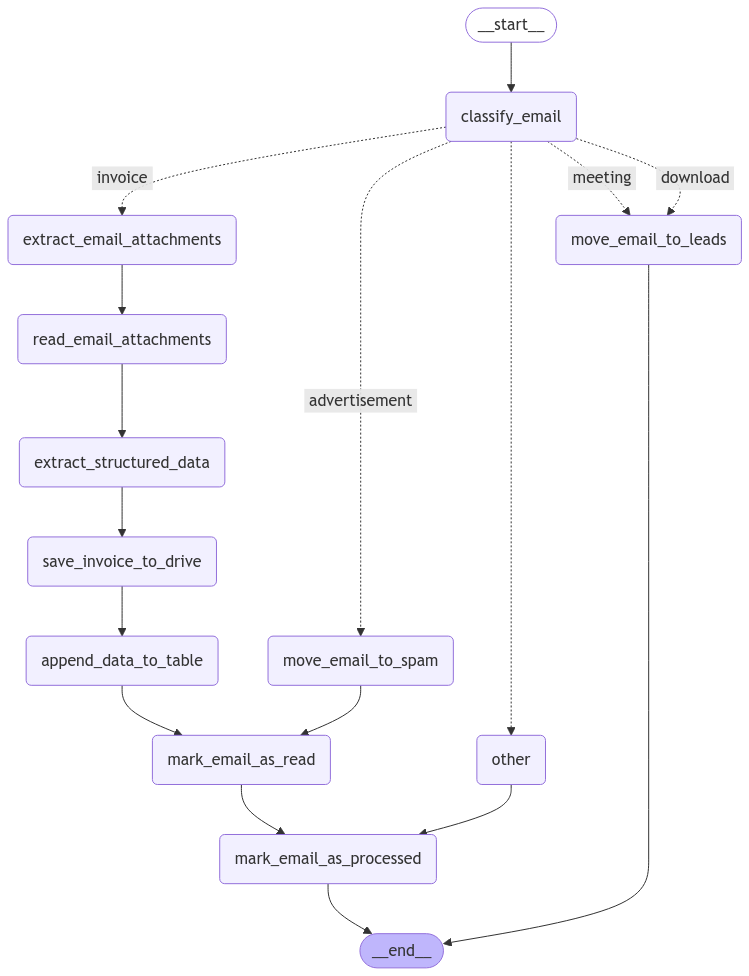
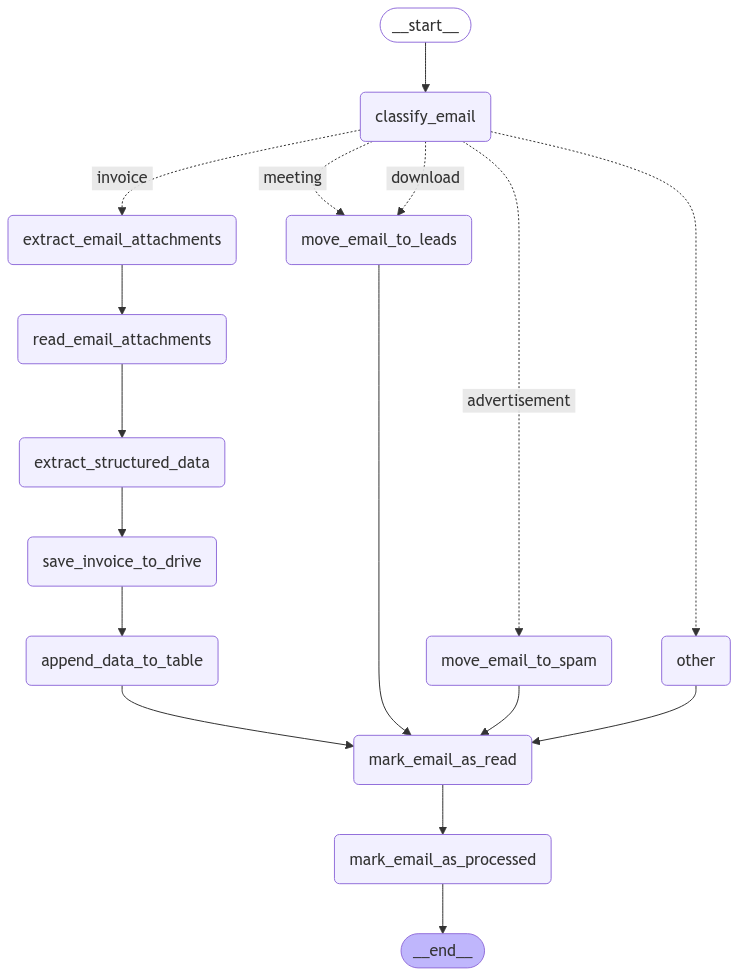
adjusted mark as read

diff --git a/langgraph_graph/setup_langgraph_graph.py b/langgraph_graph/setup_langgraph_graph.py
@@ -67,11 +67,13 @@ def build_graph() -> StateGraph:
     router_builder.add_edge("append_data_to_table", "mark_email_as_read")
 
     router_builder.add_edge("move_email_to_spam", "mark_email_as_read")
-    router_builder.add_edge("mark_email_as_read", "mark_email_as_processed")
 
-    router_builder.add_edge("other", "mark_email_as_processed")
+    router_builder.add_edge("other", "mark_email_as_read")
+
+    router_builder.add_edge("move_email_to_leads", "mark_email_as_read")
+
+    router_builder.add_edge("mark_email_as_read", "mark_email_as_processed")
     router_builder.add_edge("mark_email_as_processed", END)
-    router_builder.add_edge("move_email_to_leads", END)
 
     # Compile workflow
     graph = router_builder.compile()
